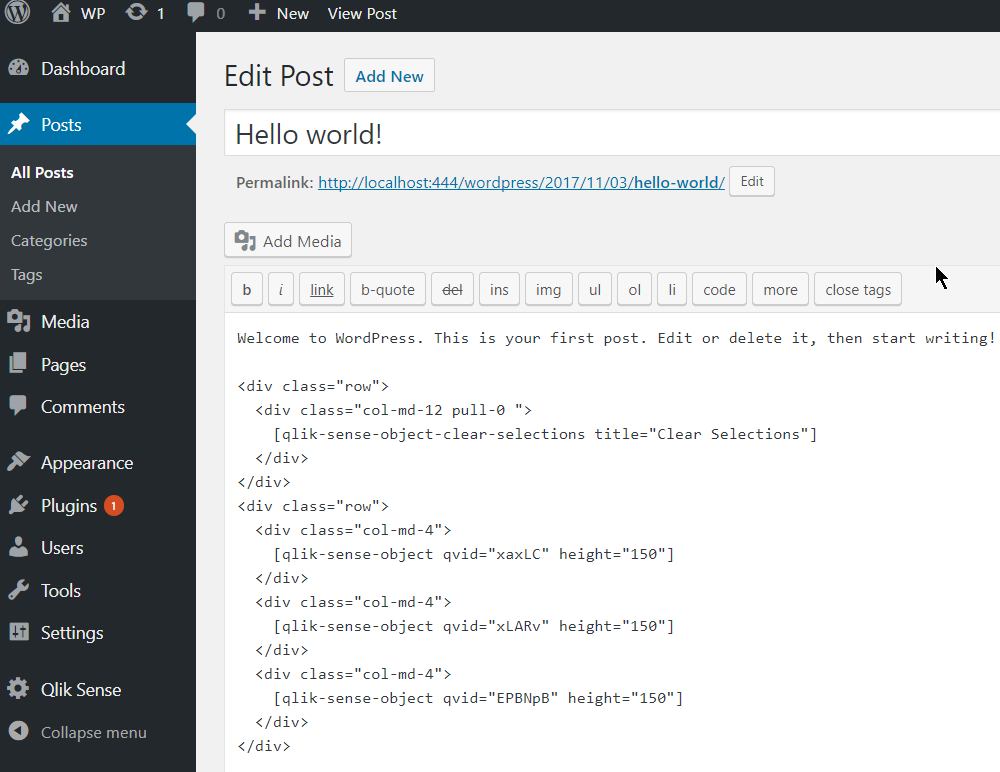
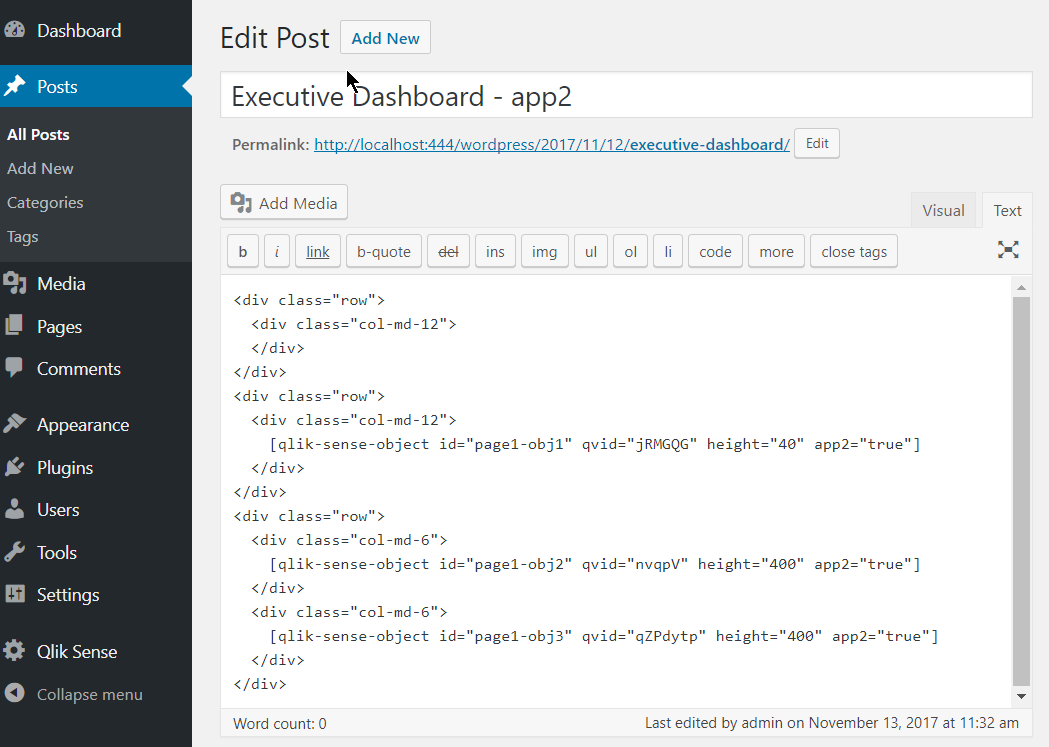
added support for second app

diff --git a/index.js b/index.js
@@ -1,9 +1,11 @@
 var config = {
+    version: vars.version,
     host: vars.qs_host,
     prefix: vars.qs_prefix,
     port: 443,
     isSecure: true,
-    id: vars.qs_id
+    id: vars.qs_id,
+    id2: (vars.qs_id2) ? vars.qs_id2 : null
 };
 require.config( {
 	baseUrl: ( config.isSecure ? "https://" : "http://" ) + config.host + (config.port ? ":" + config.port: "") + config.prefix + "resources"
@@ -14,16 +16,33 @@ require( ["js/qlik"], function ( qlik ) {
         alert( error.message );
     } );
     var app = qlik.openApp(config.id, config);
+    if (config.id2) {
+        var app2 = qlik.openApp(config.id2, config);
+    }
     $('.wp-qs').each(function() {
         var obj = {
-            id: $(this).data('qvid'),
-            noInteraction: ($(this).data('nointeraction')) ? true : false 
+            id: $(this).data('id'),
+            qvid: $(this).data('qvid'),
+            noInteraction: ($(this).data('nointeraction')) ? true : false,
+            app2: ($(this).data('app2') && config.id2) ? true : false
         }
-        app.visualization.get(obj.id).then(function (viz) {
-            viz.show(obj.id, { noInteraction: obj.noInteraction })
-        })
+        if (obj.app2) {
+            app2.visualization.get(obj.qvid).then(function (viz) {
+                viz.show(obj.id, { noInteraction: obj.noInteraction })
+                qlik.resize(obj.qvid);
+            })
+        } else {
+            app.visualization.get(obj.qvid).then(function (viz) {
+                viz.show(obj.id, { noInteraction: obj.noInteraction })
+                qlik.resize(obj.qvid);
+            })
+        }
     })
     $('#qlik-sense-clear-selections').on('click', function() {
         app.clearAll();
     })
+    $('#qlik-sense-clear-selections-app2').on('click', function() {
+        app2.clearAll();
+    })
+    console.log('%cQlik Sense Wordpress Plugin: ', 'color: red', 'Version ' + config.version);
 } );

diff --git a/qlik-sense.php b/qlik-sense.php
@@ -9,12 +9,12 @@
 		- Go to "Qlik Sense" settings and add the host, virtual proxy and the app id
 		- then add the shortcode into your posts "[sense-object qvid="ZwjJQq" height="400" nointeraction="true"]"
 		- YOu can also add the Clear Selections button [sense-object-clear-selections title="Clear Selections"]
-	Version: 1.0.5
+	Version: 1.1.1
 	Author: yianni.ververis@qlik.com
 	License: MIT
 	*/
 
-    define( 'QLIK_SENSE_PLUGIN_VERSION', '1.0.5' );
+    define( 'QLIK_SENSE_PLUGIN_VERSION', '1.1.1' );
     define( 'QLIK_SENSE_PLUGIN_MINIMUM_WP_VERSION', '4.0' );
     define( 'QLIK_SENSE_PLUGIN_PLUGIN_DIR', plugin_dir_url( __FILE__ ) );
 
@@ -31,9 +31,11 @@
 
 		// Localize the script with new data
 		$translation_array = array(	
+			'version'		=> QLIK_SENSE_PLUGIN_VERSION,
 			'qs_host'		=> esc_attr( get_option('qs_host') ),
 			'qs_prefix'		=> esc_attr( get_option('qs_prefix') ),
 			'qs_id'			=> esc_attr( get_option('qs_id') ),
+			'qs_id2'		=> esc_attr( get_option('qs_id2') ),
 		);
 		wp_localize_script( 'qlik-sense-js', 'vars', $translation_array );
 
@@ -52,6 +54,7 @@
 		register_setting( 'qlik_sense-plugin-settings-group', 'qs_host' );
 		register_setting( 'qlik_sense-plugin-settings-group', 'qs_prefix' );
 		register_setting( 'qlik_sense-plugin-settings-group', 'qs_id' );
+		register_setting( 'qlik_sense-plugin-settings-group', 'qs_id2' );
 	}
 
 	// Create the Admin Setting Page
@@ -74,6 +77,10 @@
 					<tr valign="top">
 						<th scope="row">App ID:</th>
 						<td><input type="text" name="qs_id" size="50" value="<?php echo esc_attr( get_option('qs_id') ); ?>" /></td>
+					</tr>					
+					<tr valign="top">
+						<th scope="row">App2 ID:</th>
+						<td><input type="text" name="qs_id2" size="50" value="<?php echo esc_attr( get_option('qs_id2') ); ?>" /></td>
 					</tr>				
 					<tr valign="top">
 						<th scope="row">&nbsp;</th>
@@ -88,15 +95,17 @@
 	}
 
 	// Create the Html Snippet for use inside the posts/pages
-	// [sense-object qvid="ZwjJQq" height="400" nointeraction="true"]
+	// [sense-object qvid="ZwjJQq" height="400" nointeraction="true" app2="true"]
 	function qlik_sense_object_func( $atts ) {
-		return "<div id=\"{$atts['qvid']}\" data-qvid=\"{$atts['qvid']}\" data-nointeraction=\"{$atts['nointeraction']}\" class=\"wp-qs\" style=\"height:{$atts['height']}px\"></div>";
+		$app = ($atts['app2']) ? 'data-app2="true"' : null;
+		return "<div id=\"qs_{$atts['id']}\" data-id=\"qs_{$atts['id']}\" data-qvid=\"{$atts['qvid']}\" data-nointeraction=\"{$atts['nointeraction']}\" class=\"wp-qs\" ${app} style=\"height:{$atts['height']}px\"></div>";
 	}
 	add_shortcode( 'qlik-sense-object', 'qlik_sense_object_func' );
 	
 	// [sense-object-clear-selections title="Clear Selections"]
 	function qlik_sense_object_clear_selections_func( $atts ) {
-		return "<button id=\"qlik-sense-clear-selections\">{$atts['title']}</button>";
+		$app = ($atts['app2']) ? '-app2' : null;
+		return "<button id=\"qlik-sense-clear-selections${app}\">{$atts['title']}</button>";
 	}
 	add_shortcode( 'qlik-sense-object-clear-selections', 'qlik_sense_object_clear_selections_func' );
 ?>

diff --git a/README.md b/README.md
@@ -7,38 +7,46 @@
 == Installation ==
 
 1. Upload the plugin files to the `/wp-content/plugins/qlik-sense` directory, or install the plugin through the WordPress plugins screen directly by searching for "Qlik".
-
 ![Wordpress Plugins Search](/install.png?raw=true "Wordpress Plugins Search")
+![Wordpress Plugins Directory](/PluginsDirectory.png?raw=true "Wordpress Plugins Directory")
 
-2. Then click on "Activate"
+2. Activate the plugin through the 'Plugins' screen in WordPress
 
 ![Qlik Sense - Activate](/Activate.png?raw=true "Qlik Sense - Activate")
 
-3. Go to "Qlik Sense" settings and add the host (DNS only), virtual proxy and the app id
+3. Go to "Qlik Sense" settings and add the host, virtual proxy and the app id
 
 ![Qlik Sense - Settings](/Settings.png?raw=true "Qlik Sense - Settings")
 
-- then add the shortcode into your posts "[qlik-sense-object qvid="ZwjJQq" height="400" nointeraction="true"]"
+- then add the shortcode into your posts "[qlik-sense-object id="page1-obj2" qvid="nvqpV" height="400" app2="true"]"
+    - id: is the unique div id. This is needed especially when you want to display the same object in 2 different instances
     - qvid: Is the object id as found in the "dev-hub/single-configurator"
     - height: The height of the visualization in pixels
     - nointeraction: Add this if you want to disable interactions. If you want the objects to have interaction, you can just omit this.
+    - app2: Add this if your object is coming from the second app that you have specified in the settings
 - You can also add the clear selections button "[qlik-sense-object-clear-selections title="Clear Selections"]"
 
 ![Qlik Sense - Edit Post](/EditPost.png?raw=true "Qlik Sense - Edit Post")
 
-- The final page should look like this
+- The final page should look like this. Notice that in the page with app 1 objects I have included an object from app2 and they both display when all pages are loaded on the same screen
 
-![Qlik Sense - Hello World](/Helloworld.png?raw=true "Qlik Sense - Hello World")
+![Qlik Sense - App 2](/Helloworld.png?raw=true "Qlik Sense - App 2")
+![Qlik Sense - App 1](/Helloworld2.png?raw=true "Qlik Sense - App 1")
 
 #### requently Asked Questions
 
 ##### Cannot access the page
 
-- In the host you only add the Qlik Sense server DNS not the full url like "myserver.com", not "https://myserver.com/single"
 - Make sure you whitelist the site's url in your Virtual Proxy
 - If the virtual proxy is "yianni" make sure you add in the settings "/yianni/"
 
 #### Changelog
+
+##### 1.1.1
+* Added unique id instead of using the qvid so we can display multiple instances of the same object
+
+##### 1.1.0
+* Added second app in the settings
 
 ##### 1.0.5
 * Add virtual proxy to the css and js resources.
@@ -51,5 +59,3 @@
 
 ##### 1.0.2
 * Changed the option names to start with qs_.
-
-https://community.qlik.com/blogs/qlikviewdesignblog/2017/11/10/qlik-sense-wordpress-plugin
